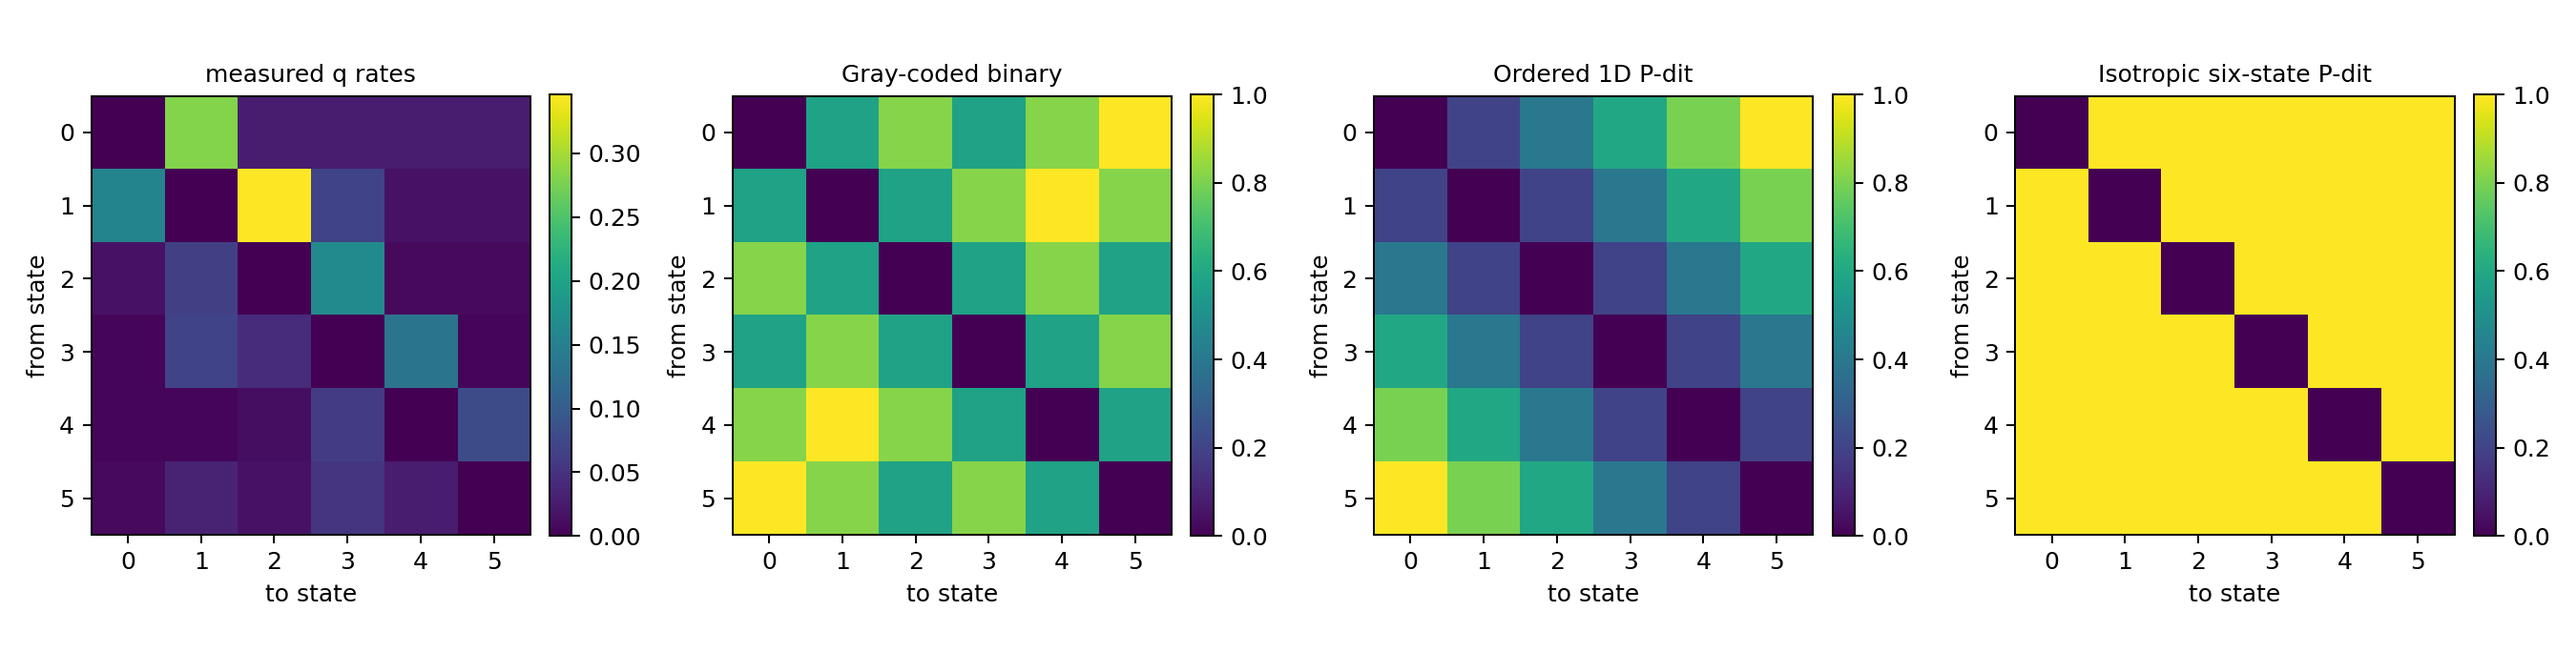
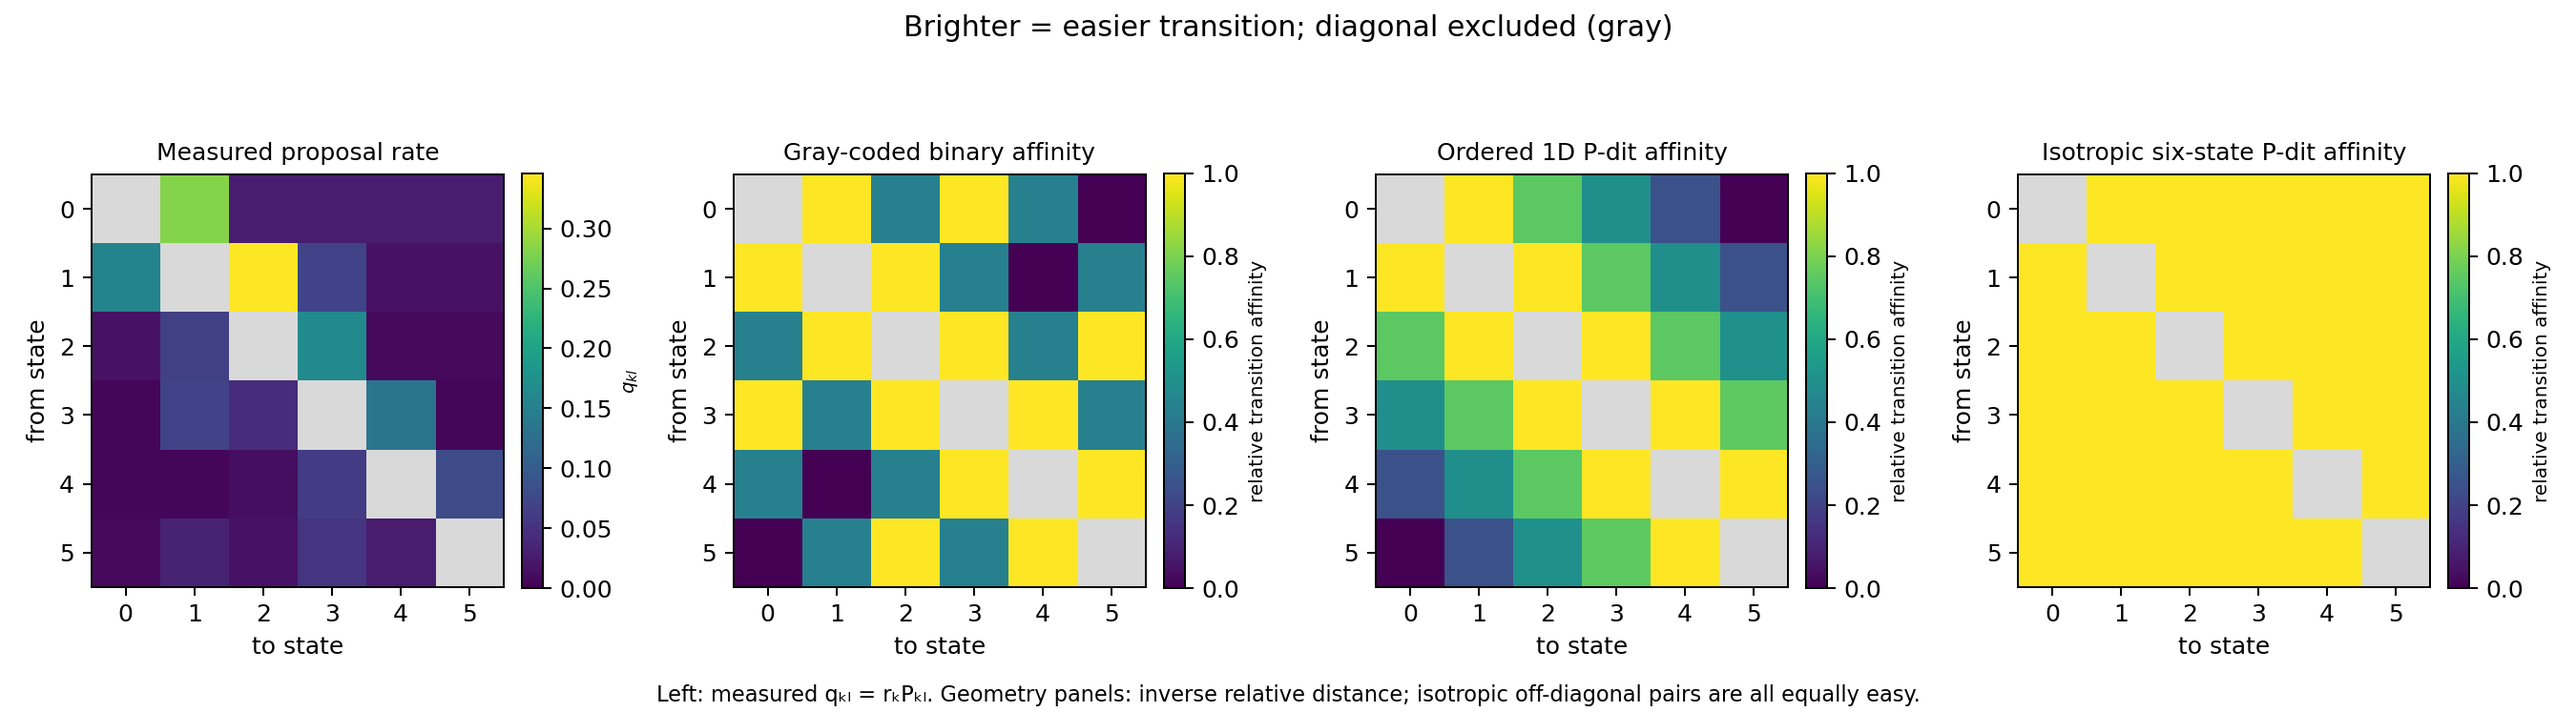
Geometry

diff --git a/src/mtj_p1_empirical_transition_mh.py b/src/mtj_p1_empirical_transition_mh.py
@@ -636,6 +636,86 @@ def json_safe(value):
     return value
 
 
+def transition_affinity(distance: np.ndarray) -> np.ndarray:
+    """Convert geometry distance to off-diagonal relative transition ease.
+
+    The nearest distinct state is assigned affinity one and the farthest is
+    assigned zero.  If every distinct pair is equidistant (the isotropic
+    geometry), all off-diagonal transitions receive affinity one because the
+    geometry has no preferred or disfavored direction.  Self-transitions are
+    masked because q_kk is not an event proposal in P1.
+    """
+    distance = np.asarray(distance, dtype=float)
+    mask = ~np.eye(len(distance), dtype=bool)
+    offdiag = distance[mask]
+    minimum = float(np.min(offdiag))
+    maximum = float(np.max(offdiag))
+    affinity = np.zeros_like(distance)
+    if maximum - minimum <= 1e-12:
+        affinity[mask] = 1.0
+    else:
+        affinity[mask] = (maximum - distance[mask]) / (maximum - minimum)
+    np.fill_diagonal(affinity, np.nan)
+    return affinity
+
+
+def save_transition_geometry_plot(
+    problems: dict[str, GeometryProblem],
+    profile: PhysicalProposalProfile,
+    output_dir: Path,
+) -> None:
+    """Plot measured rates and geometry affinity with matching color semantics."""
+    if plt is None:
+        return
+    measured_q = profile.q_rates.copy()
+    np.fill_diagonal(measured_q, np.nan)
+    panels = [
+        ("Measured proposal rate", measured_q, r"$q_{kl}$", float(np.nanmax(measured_q)))
+    ] + [
+        (
+            f"{GEOMETRY_LABELS[name]} affinity",
+            transition_affinity(problems[name].distance),
+            "relative transition affinity",
+            1.0,
+        )
+        for name in GEOMETRY_ORDER
+    ]
+
+    color_map = plt.get_cmap("viridis").copy()
+    color_map.set_bad("#d9d9d9")
+    fig, axes = plt.subplots(1, 4, figsize=(15.0, 4.15))
+    for ax, (title, matrix, colorbar_label, upper) in zip(axes, panels):
+        image = ax.imshow(
+            np.ma.masked_invalid(matrix),
+            cmap=color_map,
+            aspect="equal",
+            vmin=0.0,
+            vmax=max(upper, 1e-15),
+        )
+        ax.set_title(title, fontsize=10)
+        ax.set_xlabel("to state")
+        ax.set_ylabel("from state")
+        ax.set_xticks(range(6))
+        ax.set_yticks(range(6))
+        colorbar = fig.colorbar(image, ax=ax, fraction=0.046, pad=0.04)
+        colorbar.set_label(colorbar_label, fontsize=8)
+    fig.suptitle(
+        "Brighter = easier transition; diagonal excluded (gray)",
+        fontsize=12,
+    )
+    fig.text(
+        0.5,
+        0.015,
+        "Left: measured qₖₗ = rₖPₖₗ. Geometry panels: inverse relative distance; "
+        "isotropic off-diagonal pairs are all equally easy.",
+        ha="center",
+        fontsize=9,
+    )
+    fig.tight_layout(rect=(0.0, 0.07, 1.0, 0.94))
+    fig.savefig(output_dir / "p1_transition_geometry.png", dpi=180)
+    plt.close(fig)
+
+
 def save_plots(
     problems: dict[str, GeometryProblem],
     profile: PhysicalProposalProfile,
@@ -690,21 +770,7 @@ def save_plots(
     fig.savefig(output_dir / "p1_sampling_metrics.png", dpi=180)
     plt.close(fig)
 
-    fig, axes = plt.subplots(1, 4, figsize=(15.0, 3.8))
-    matrices = [("measured q rates", profile.q_rates)] + [
-        (GEOMETRY_LABELS[name], problems[name].distance) for name in GEOMETRY_ORDER
-    ]
-    for ax, (title, matrix) in zip(axes, matrices):
-        image = ax.imshow(matrix, cmap="viridis", aspect="equal")
-        ax.set_title(title, fontsize=10)
-        ax.set_xlabel("to state")
-        ax.set_ylabel("from state")
-        ax.set_xticks(range(6))
-        ax.set_yticks(range(6))
-        fig.colorbar(image, ax=ax, fraction=0.046, pad=0.04)
-    fig.tight_layout()
-    fig.savefig(output_dir / "p1_transition_geometry.png", dpi=180)
-    plt.close(fig)
+    save_transition_geometry_plot(problems, profile, output_dir)
 
     fig, axes = plt.subplots(1, 3, figsize=(14.5, 4.2))
     for ax, name in zip(axes, GEOMETRY_ORDER):
@@ -805,6 +871,7 @@ def run_p1(config: P1Config, output_dir: Path) -> dict:
             "isotropic_6state": "six orthogonal one-hot vectors; every distinct pair is equidistant",
             "energy": "normalized ring-plus-chords pair distance and site-preference distance; each geometry divided by its exact raw-energy standard deviation",
             "comparison_note": "Each geometry induces a different exact target. KL and DB compare each sampler to its own target; direct q-versus-distance compatibility provides the target-independent device interpretation test.",
+            "transition_geometry_plot": "Brighter means easier transition. The measured panel shows q_kl; geometry panels show inverse relative off-diagonal distance. The diagonal is excluded, and all isotropic off-diagonal pairs are equally easy.",
         },
         "geometry_compatibility": compatibility_rows,
         "geometry_ground_states": {
